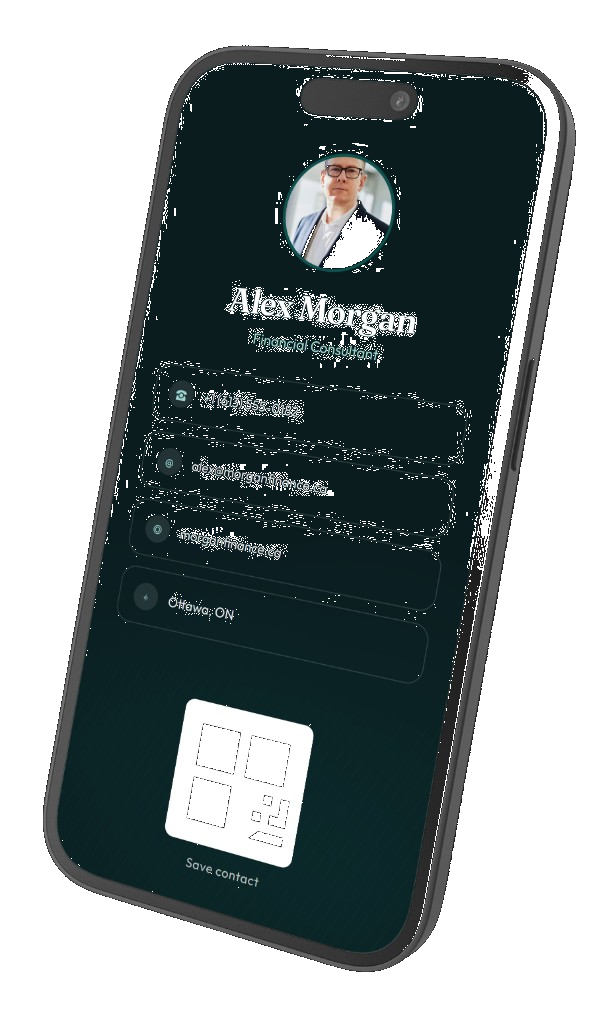
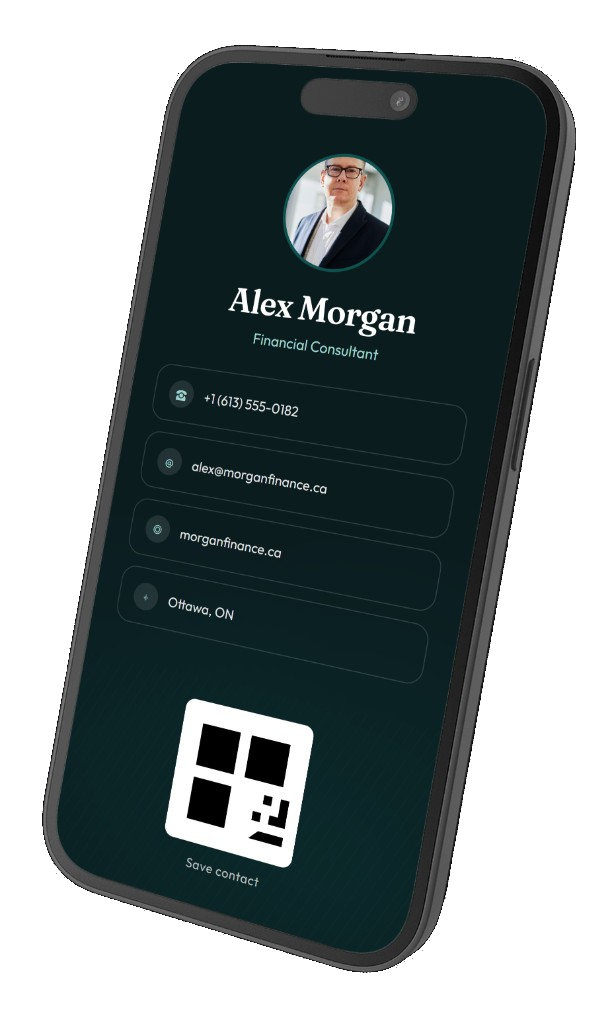
Use the 3D phone renders with clean black knockout and CSS drop shadows.

diff --git a/src/components/mockups/WhyDevices.tsx b/src/components/mockups/WhyDevices.tsx
@@ -1,34 +1,36 @@
 "use client";
 
-import { BusinessSiteScreen } from "@/components/mockups/BusinessSiteScreen";
-import { DigitalCardScreen } from "@/components/mockups/DigitalCardScreen";
-import { PhoneFrame } from "@/components/mockups/PhoneFrame";
+import Image from "next/image";
 
 export function WhyDevices() {
   return (
     <div
-      className="relative mx-auto hidden h-[460px] w-full max-w-[680px] [perspective:1600px] lg:block"
+      className="relative mx-auto hidden h-[460px] w-full max-w-[680px] lg:block"
       aria-hidden="true"
     >
-      <div className="pointer-events-none absolute inset-x-[8%] bottom-1 h-20 rounded-full bg-ink/25 blur-3xl" />
-      <div className="pointer-events-none absolute inset-x-[18%] bottom-0 h-8 rounded-full bg-ink/15 blur-xl" />
+      <div className="pointer-events-none absolute inset-x-[10%] bottom-0 h-16 rounded-full bg-ink/20 blur-3xl" />
 
-      <PhoneFrame
-        className="left-[4%] top-[2%] h-[98%] w-[48%]"
-        baseRotateX={12}
-        baseRotateY={-26}
-      >
-        <DigitalCardScreen />
-      </PhoneFrame>
+      <div className="absolute left-[2%] top-[2%] h-[98%] w-[52%] animate-float">
+        <Image
+          src="/mockups/phones/alex-morgan-3d.png"
+          alt=""
+          width={614}
+          height={1024}
+          unoptimized
+          className="h-full w-full object-contain [filter:drop-shadow(0_18px_28px_rgba(15,28,31,0.28))_drop-shadow(0_6px_10px_rgba(15,28,31,0.18))]"
+        />
+      </div>
 
-      <PhoneFrame
-        className="right-[2%] top-[8%] h-[92%] w-[46%]"
-        baseRotateX={10}
-        baseRotateY={24}
-        floatDelay
-      >
-        <BusinessSiteScreen />
-      </PhoneFrame>
+      <div className="absolute right-[0%] top-[8%] h-[92%] w-[50%] animate-float-delayed">
+        <Image
+          src="/mockups/phones/riverdale-3d.png"
+          alt=""
+          width={614}
+          height={1024}
+          unoptimized
+          className="h-full w-full object-contain [filter:drop-shadow(0_18px_28px_rgba(15,28,31,0.28))_drop-shadow(0_6px_10px_rgba(15,28,31,0.18))]"
+        />
+      </div>
     </div>
   );
 }
